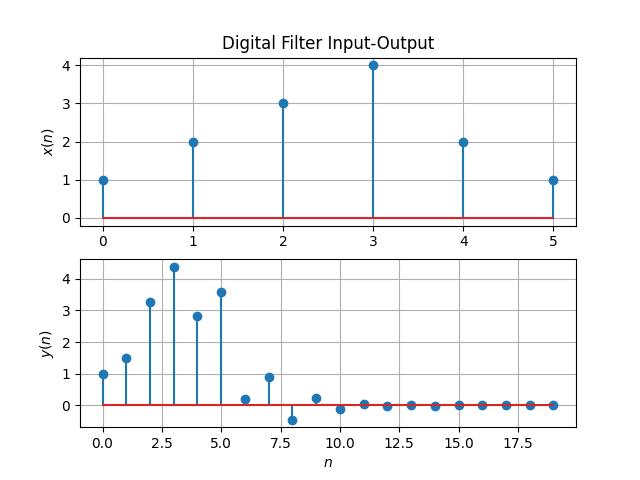
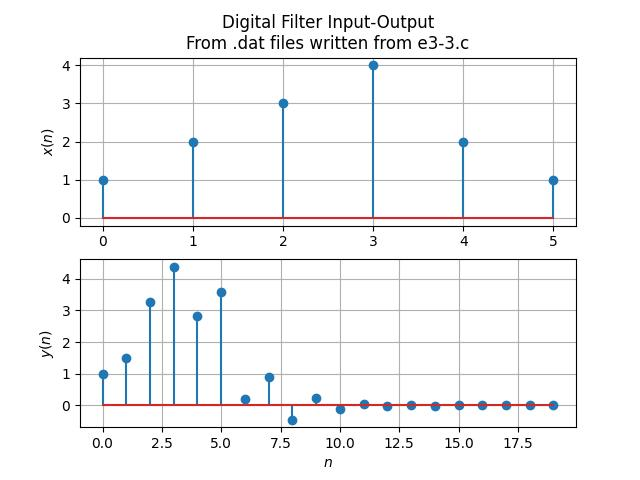
10082022 - 11.55 - Completed till section 3

Changed region(s): [[0.2812, 0.0312, 0.7188, 0.125]]

diff --git a/Assignment 1/e3-3.c b/Assignment 1/e3-3.c
@@ -4,23 +4,41 @@
 
 int main()
 {
-    int x[] = {1.0,2.0,3.0,4.0,2.0,1.0};
+    FILE *fpx=NULL;
+    FILE *fpy=NULL;
+    fpx=fopen("x.dat","w");
+    fpy=fopen("y.dat","w");
+
+    double x[] = {1.0,2.0,3.0,4.0,2.0,1.0};
     int k = 20;
-    int y[6];
+    double y[k];
     y[0] = x[0];
     y[1] = -0.5*y[0]+x[1];
 
-    for (int n = 0; n<6; n++)
+    for (int n = 0; n < k; n++)
     {
-        if (n < 6){
+        if (n < 6)
+        {
 		    y[n] = -0.5*y[n-1]+x[n]+x[n-2];
         }
-	    else if (n > 5 && n < 8) {
+	    else if (n > 5 && n < 8) 
+        {
 		    y[n] = -0.5*y[n-1]+x[n-2];
         }
-	    else{
+	    else
+        {
 		    y[n] = -0.5*y[n-1];   
         }
     }
-
+    for (int n = 0; n < 6; n++)
+    {
+        fprintf(fpx, "%lf\n", x[n]);
+    }
+    fclose(fpx);
+    for (int n = 0; n < k; n++)
+    {
+        fprintf(fpy, "%lf\n", y[n]);
+    }
+    fclose(fpy);
+    return 0;
 }

diff --git a/Assignment 1/e3-3.py b/Assignment 1/e3-3.py
@@ -1,0 +1,30 @@
+import numpy as np
+import matplotlib.pyplot as plt
+
+k = 20
+fx = np.loadtxt("Assignment 1/x.dat")
+fy = np.loadtxt("Assignment 1/y.dat")
+
+print(fx)
+print(fy)
+
+plt.subplot(2, 1, 1)
+plt.stem(range(0,6),fx)
+plt.title('Digital Filter Input-Output\nFrom .dat files written from e3-3.c')
+plt.ylabel('$x(n)$')
+plt.grid()# minor
+
+
+plt.subplot(2, 1, 2)
+plt.stem(range(0,k),fy)
+plt.xlabel('$n$')
+plt.ylabel('$y(n)$')
+plt.grid()# minor
+
+#If using termux
+#plt.savefig('../figs/xnyn.pdf')
+#plt.savefig('../figs/xnyn.eps')
+#subprocess.run(shlex.split("termux-open ../figs/xnyn.pdf"))
+#else
+plt.savefig('Assignment 1/fig/xnyn.jpg')
+plt.show()
